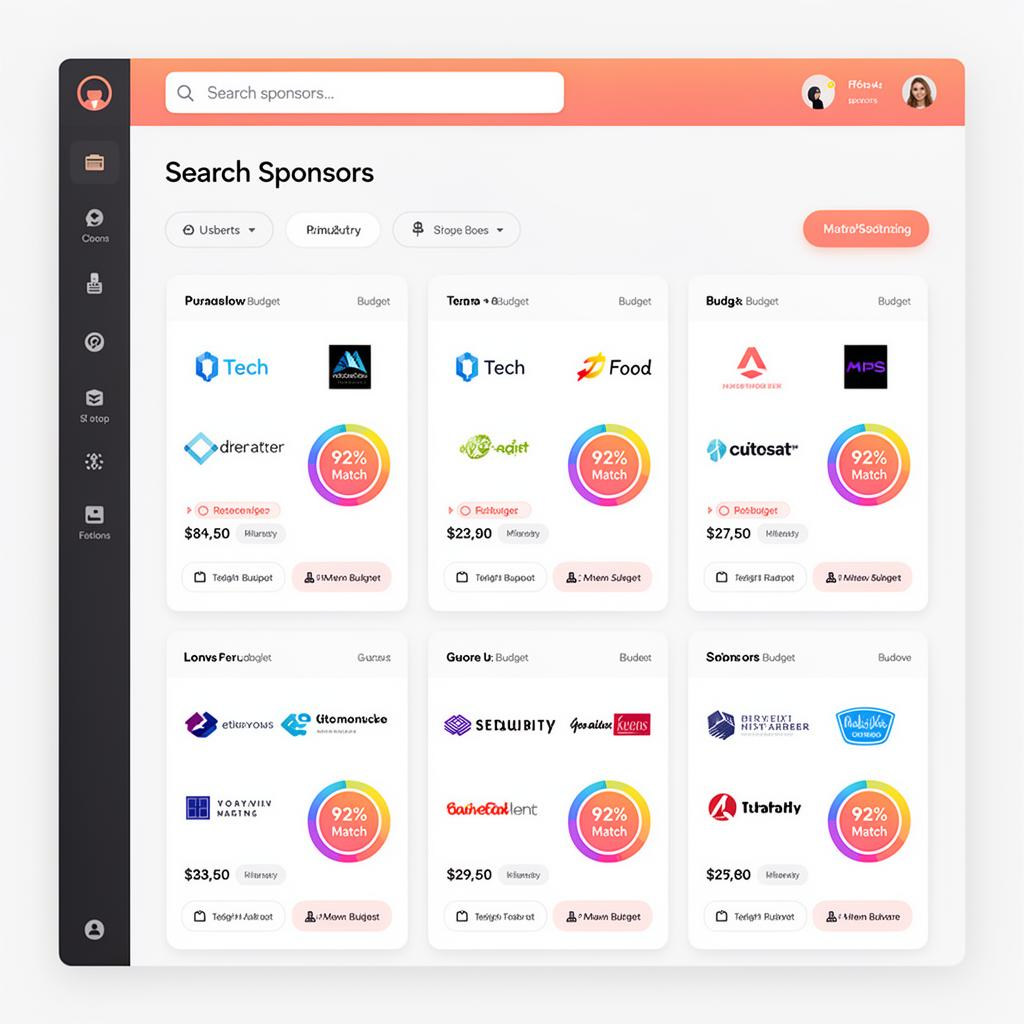
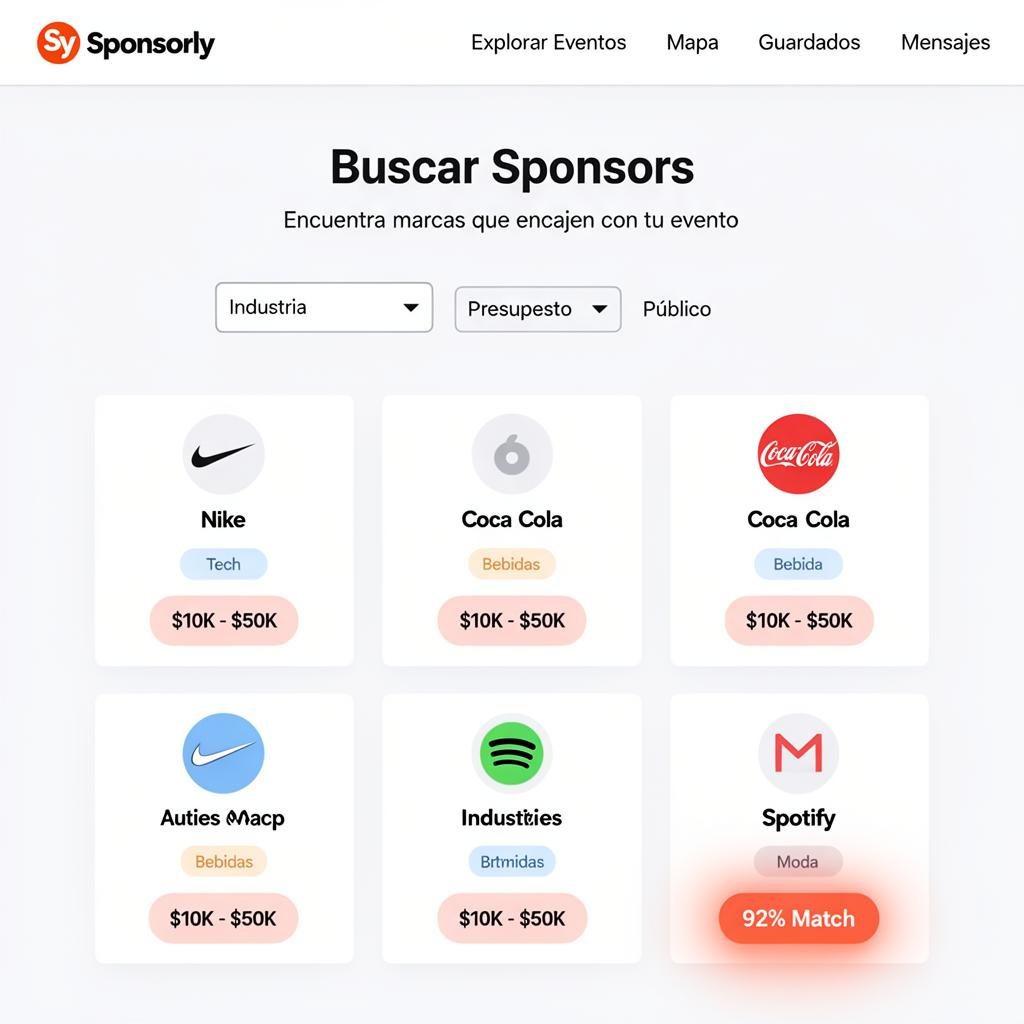
Changes

diff --git a/src/pages/Index.tsx b/src/pages/Index.tsx
@@ -18,7 +18,7 @@ const sponsorPreview = [
 ];
 
 const organizerPreview = [
-  { img: organizerPublish, title: "Publica tu evento", desc: "Crea tu ficha de evento con todos los detalles para atraer sponsors." },
+  { img: organizerPublish, title: "Busca sponsors para tu evento", desc: "Explora marcas compatibles y descubre sponsors ideales según el match score con tu evento." },
   { img: organizerProposals, title: "Recibe propuestas", desc: "Revisa y responde a solicitudes de patrocinio en un solo lugar." },
   { img: organizerVisibility, title: "Controla tu visibilidad", desc: "Ve cómo aparece tu evento ante los sponsors potenciales." },
 ];
